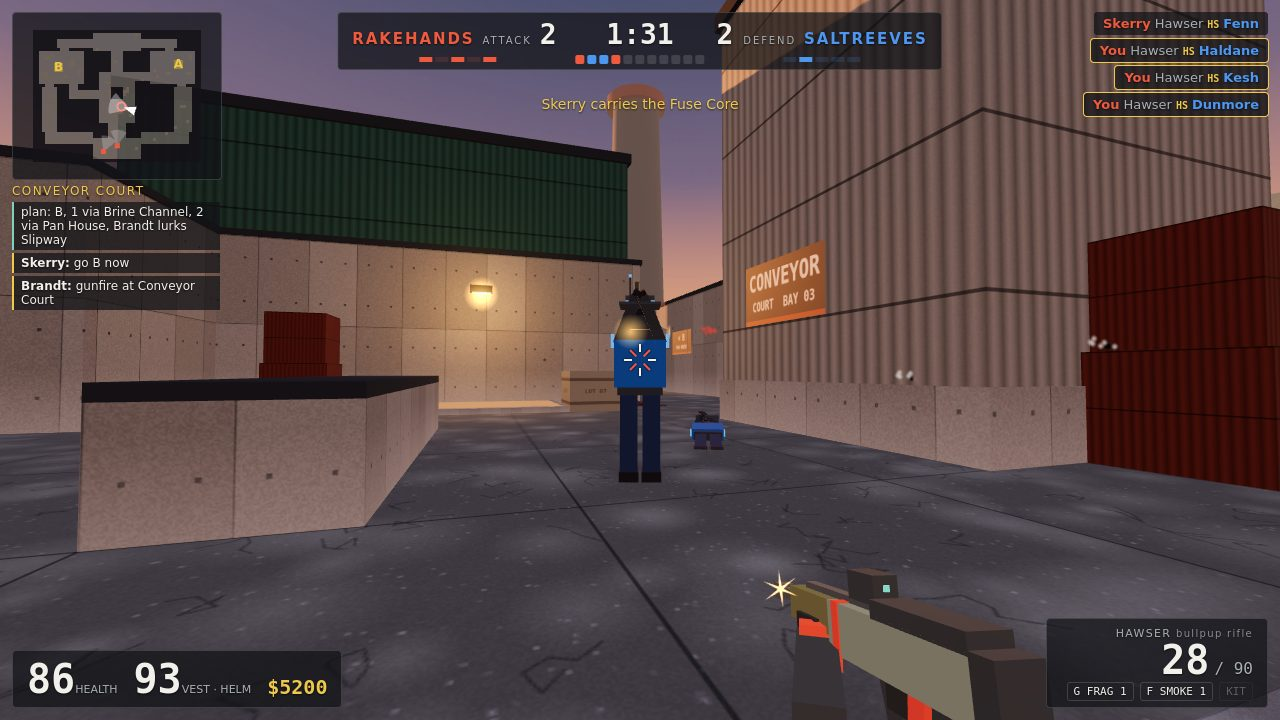
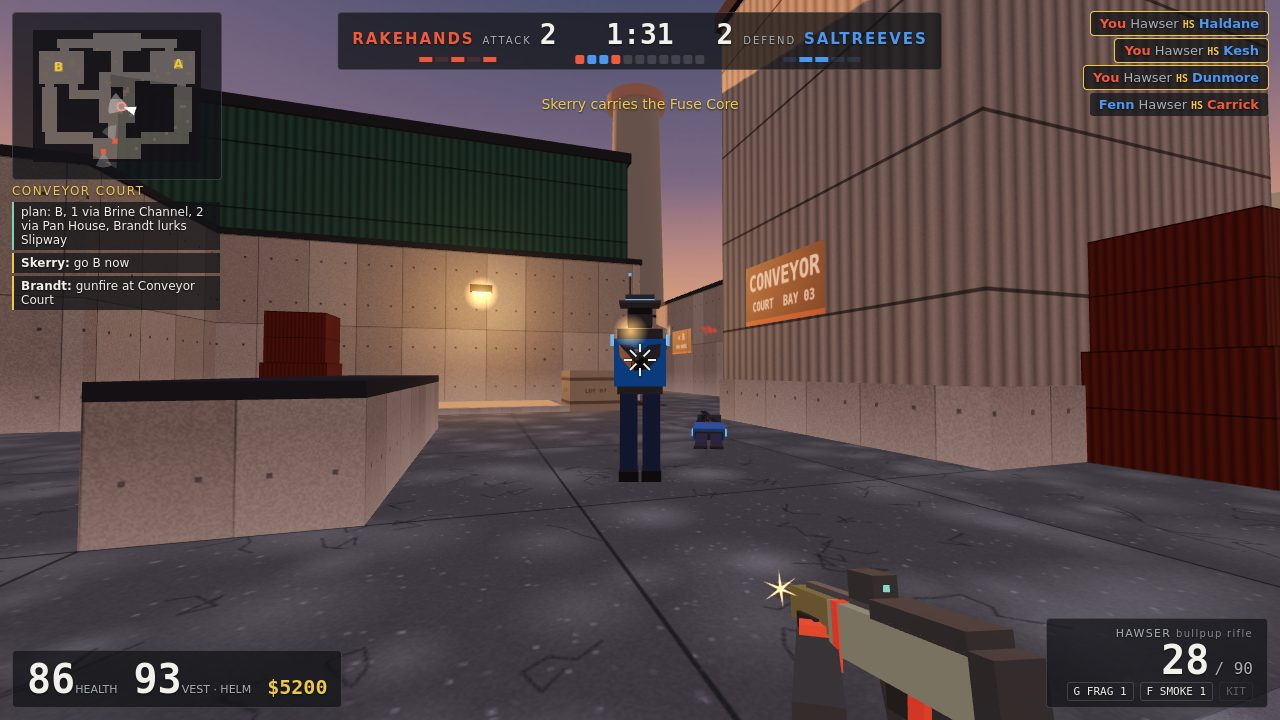
Cover: the trading Saltreeve is alive and firing back in the captured frame
Bots parked outside a scene now face away from the map, so nobody at the attackers' spawn shoots
up the lane into the court; the player's headshot comes at tick 12 and Fenn's return fire lands
inside the drawn frames. Fenn stands with his rifle levelled at the camera under a white hit
marker, and the feed's rows explain every dark pip (Fenn HS Carrick). Fresh screenshots.

diff --git a/tools/stage.js b/tools/stage.js
@@ -20,13 +20,13 @@ const SCENES = {
   // with a second one 7 m out against the lit west wall (his muzzle flash, our hit marker).
   1: { side: 0, round: 5, clock: 91, ticks: 36, core: 'mate', hide: ['damage'],
     cast: [['p', 32, 26, 28, 25, 'hawser'], ['f0', 28, 24, 32, 26, 'hawser'], ['f1', 29, 25, 32, 26, 'cleat']],
-    fire: [['f1', 0.42, -0.1]], // his first shots go low: the player survives the trade
+    fire: [['f1', 0.55, -0.1]], // his first shot lands in the drawn frames, low: the player survives the trade
     radio: [['m1', 'gunfire at Conveyor Court'], ['m0', 'go B now']], // heard from the cut; the coach's call
     script(i, s) {
       s.p.cmd.crouch = true;
-      if (i === 14) s.aim('f0', 'head');
+      if (i === 11) s.aim('f0', 'head');
       if (i >= 20) s.aim('f1', 'chest');
-      s.p.cmd.fire = i === 15 || i === 31;
+      s.p.cmd.fire = i === 12 || i === 31;
     } },
   // Buy time in the defenders' yard, the low sun across the cladding, teammates armed differently.
   2: { side: 1, round: 7, phase: 'freeze', ticks: 12, buy: true, money: 2350, bare: true,
@@ -97,7 +97,7 @@ function stage(ctx, sc) {
   const who = (k) => (k === 'p' ? p : (picked[k] ??= k[0] === 'm' ? mates[+k[1]] : (sc.dead?.includes(k) && fallen.shift()) || foes[+k[1]]));
   const cast = new Set(sc.cast.map(([k]) => who(k)));
   // The living not cast wait in their own spawn, out of sight.
-  [...mates, ...foes].forEach((a, i) => { const s = state.map.spawns[state.teams[a.team].side][i % 5]; if (!cast.has(a)) place(state, a, s.c, s.r, 27, 20); });
+  [...mates, ...foes].forEach((a, i) => { const s = state.map.spawns[state.teams[a.team].side][i % 5]; if (!cast.has(a)) place(state, a, s.c, s.r, s.c, s.r + (state.teams[a.team].side ? -20 : 20)); }); // facing away from the map
   for (const [k, c, r, fc, fr, gun] of sc.cast) place(state, who(k), c, r, fc, fr, gun);
   if (sc.bare) Object.assign(p, { armor: 0, helm: false, kit: false }), Object.assign(p.grenades, { frag: 0, smoke: 0 });
   else { Object.assign(p.grenades, { frag: 1, smoke: 1 }); p.armor = 100; p.helm = true; p.kit = mySide === 1; } // the kit is the defenders'
